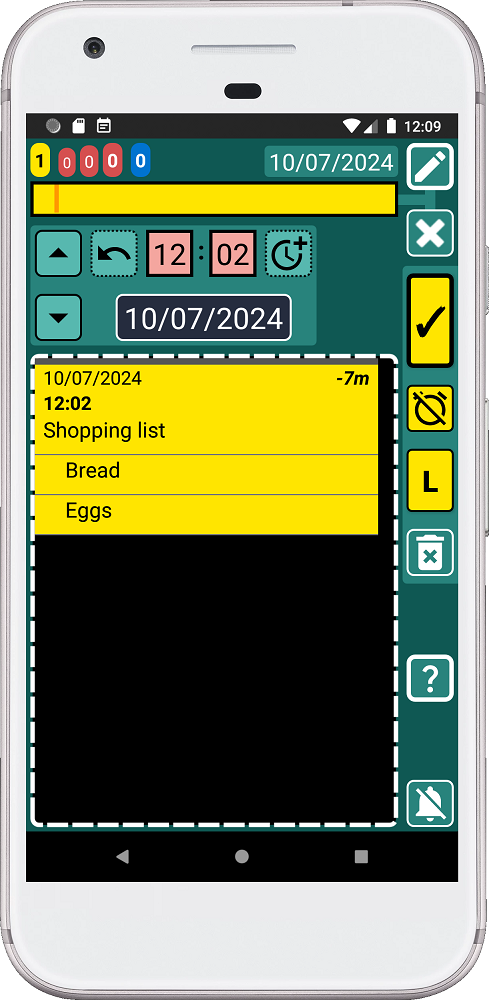
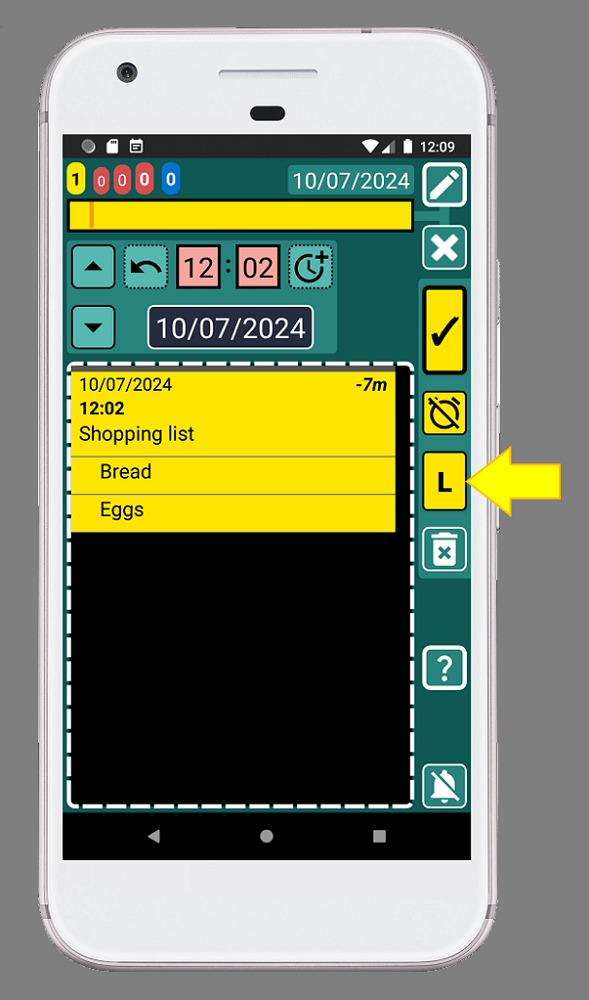
0741

diff --git a/create-shopping-list_ENG.html b/create-shopping-list_ENG.html
@@ -84,10 +84,10 @@
 			<br>
 			Once the item is added the text box will be cleared. <br>
 			<br>
-			<b>11.</b> Now select from the menu or type "Eggs", then press the button with the "L" (list) to add the item to the list: <br>
+			<b>11.</b> Now select from the menu or type "Eggs". Then press the button with the "L" (list), indicated with the yellow arrow (image above), to add the item to the list: <br>
 			<img src="pics/ShoppingList_6_ENG.png" class="responsive"/> <br>
 			<br>
-			<b>12.</b> Now select from the menu or type "Milk", then press the button with the "L" (list) to add the item to the list: <br>
+			<b>12.</b> Now select from the menu or type "Milk". Then press the button with the "L" (list), indicated with the yellow arrow (image above), to add the item to the list: <br>
 			<img src="pics/ShoppingList_7_ENG.png" class="responsive"/> <br>
 			<br>
 			Note that the items in the list will be sorted alphabetically. <br>
